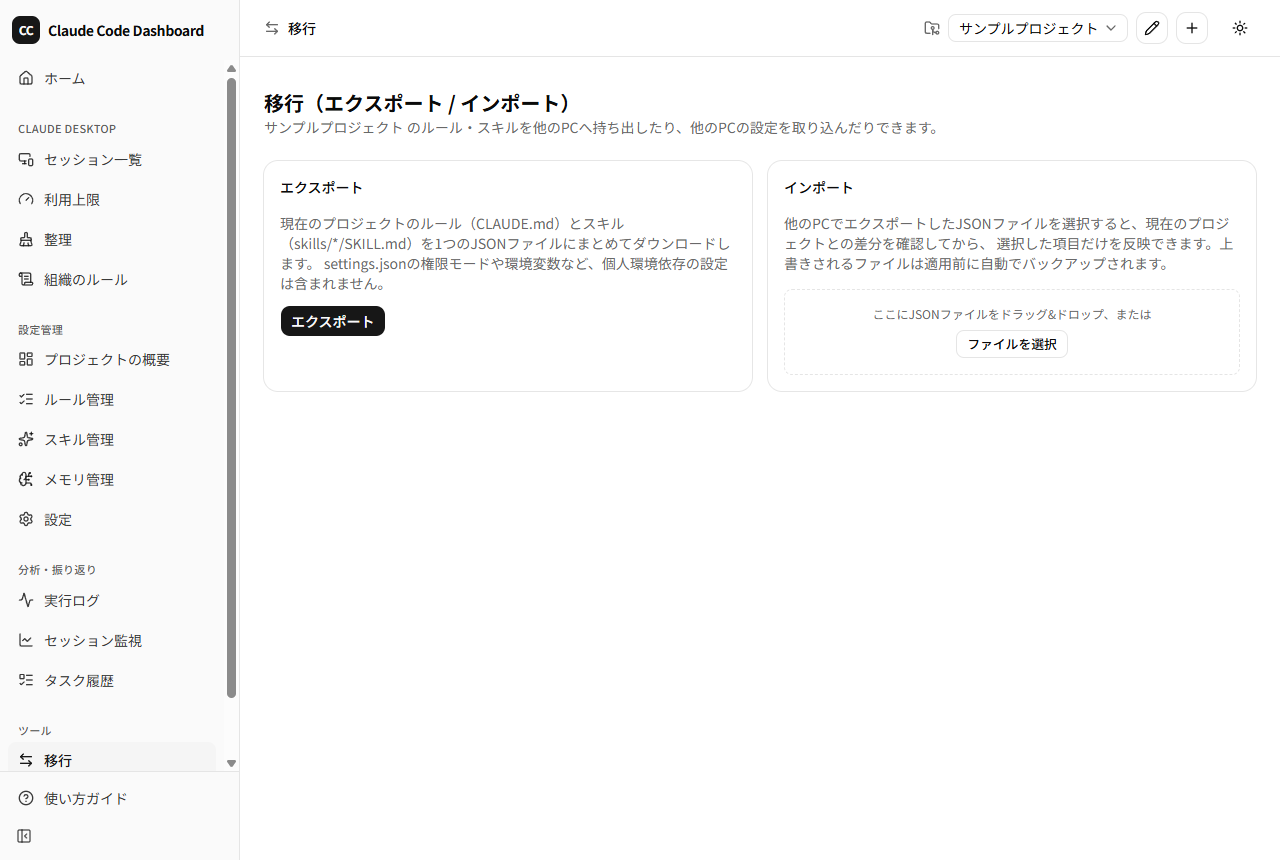
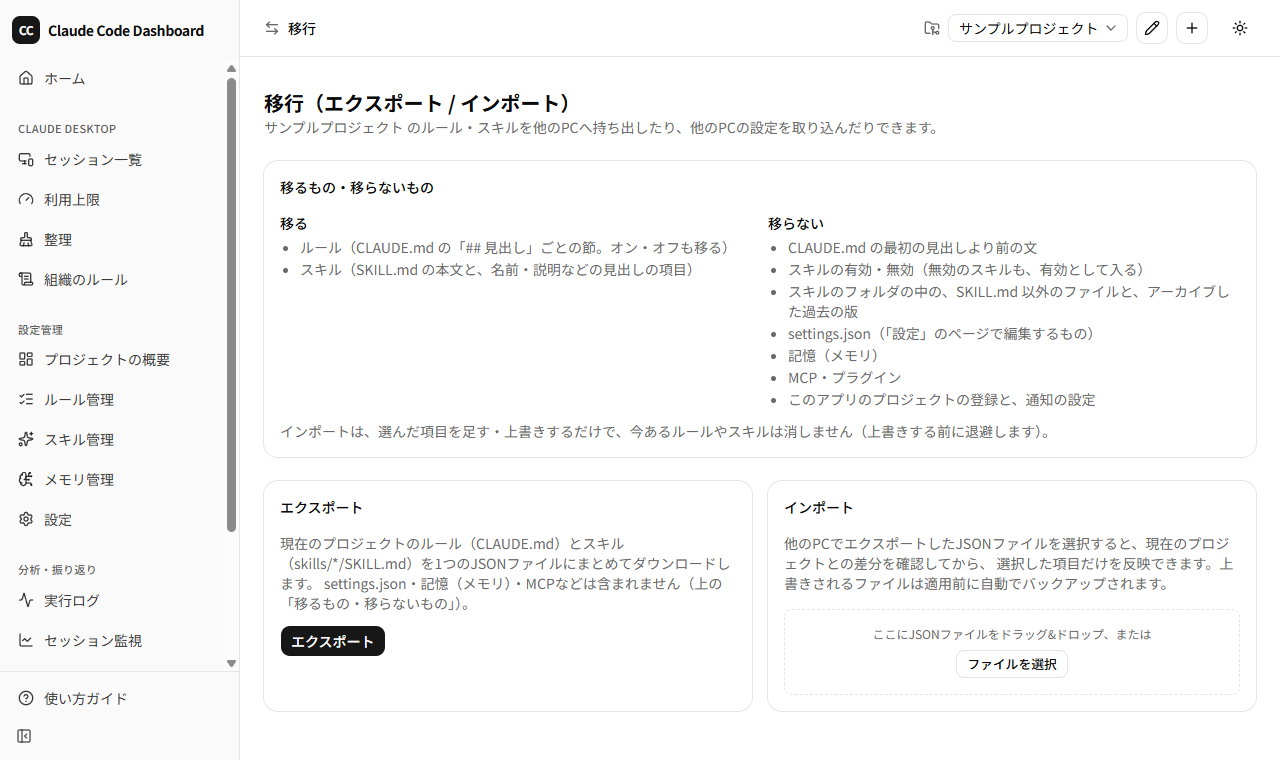
v0.2.0 の準備：移行の画面に「移るもの・移らないもの」を出し、版を 0.2.0 にする
- 移行のページの上に、移るもの（ルール・スキル）と移らないもの（最初の見出しより前の文・スキルの有効と無効・SKILL.md 以外のファイル・settings.json・記憶・MCP など）のカードを足す。文言は migrateScope.ts の1か所にまとめ、実際の動きとずれたら落ちるテストを足す
- エクスポートの説明・/help・使い方ガイド・README を同じ内容にそろえ、移行の画像を撮り直す
- package.json と package-lock.json を 0.2.0 にし、README にダウンロードの節を足す

diff --git a/src/lib/migrateScope.test.ts b/src/lib/migrateScope.test.ts
@@ -1,0 +1,74 @@
+import { promises as fs } from "fs"
+import os from "os"
+import path from "path"
+import { afterEach, describe, expect, it } from "vitest"
+import { applyImport, buildExportBundle } from "./exportImport"
+import { MIGRATE_EXCLUDED, MIGRATE_IMPORT_NOTE, MIGRATE_INCLUDED } from "./migrateScope"
+import { ProjectConfig } from "./types"
+
+// 移行のページの「移るもの・移らないもの」の説明が、エクスポート・インポートの実際の動きと合っていることを確かめる
+const cleanupDirs: string[] = []
+
+async function makeProject(): Promise<ProjectConfig> {
+  const tmpDir = await fs.mkdtemp(path.join(os.tmpdir(), "ccd-migrate-scope-test-"))
+  cleanupDirs.push(tmpDir)
+  return { id: "test", name: "テストプロジェクト", path: tmpDir }
+}
+
+async function writeSkill(root: string, dirName: string, body: string) {
+  const dir = path.join(root, dirName)
+  await fs.mkdir(dir, { recursive: true })
+  await fs.writeFile(path.join(dir, "SKILL.md"), `---\nname: ${dirName}\ndescription: desc\n---\n\n${body}\n`)
+}
+
+afterEach(async () => {
+  await Promise.all(cleanupDirs.splice(0).map((d) => fs.rm(d, { recursive: true, force: true })))
+})
+
+describe("移行で移るもの・移らないもの", () => {
+  it("書き出すのはルールとスキルだけ（形式を変えたら、migrateScope.ts の説明も直す）", async () => {
+    const project = await makeProject()
+    const bundle = await buildExportBundle(project)
+    expect(Object.keys(bundle).sort()).toEqual(["exportedAt", "rules", "skills", "sourceProjectName", "version"])
+    expect(MIGRATE_INCLUDED).toHaveLength(2)
+    expect(MIGRATE_EXCLUDED.length).toBeGreaterThan(0)
+  })
+
+  it("最初の見出しより前の文と、スキルのフォルダのほかのファイルは移らない。無効のスキルは有効として入る", async () => {
+    const source = await makeProject()
+    await fs.writeFile(path.join(source.path, "CLAUDE.md"), "前置きの文\n\n## ルールA\n本文A\n")
+    await writeSkill(path.join(source.path, "skills"), "on-skill", "有効の本文")
+    await fs.writeFile(path.join(source.path, "skills", "on-skill", "helper.txt"), "ほかのファイル")
+    await writeSkill(path.join(source.path, "skills-disabled"), "off-skill", "無効の本文")
+
+    const bundle = await buildExportBundle(source)
+    expect(JSON.stringify(bundle)).not.toContain("前置きの文")
+    expect(JSON.stringify(bundle)).not.toContain("ほかのファイル")
+    expect(bundle.skills.map((s) => s.dirName).sort()).toEqual(["off-skill", "on-skill"])
+
+    const target = await makeProject()
+    await applyImport(target, bundle, { ruleCategories: ["ルールA"], skillDirNames: ["on-skill", "off-skill"] })
+    await fs.access(path.join(target.path, "skills", "off-skill", "SKILL.md"))
+    await expect(fs.access(path.join(target.path, "skills-disabled", "off-skill"))).rejects.toThrow()
+    await expect(fs.access(path.join(target.path, "skills", "on-skill", "helper.txt"))).rejects.toThrow()
+  })
+
+  it("インポートは足す・上書きするだけで、今あるルール・スキル・前置きの文は消さない", async () => {
+    const source = await makeProject()
+    await fs.writeFile(path.join(source.path, "CLAUDE.md"), "## ルールA\n新しい本文A\n")
+    const bundle = await buildExportBundle(source)
+
+    const target = await makeProject()
+    await fs.writeFile(path.join(target.path, "CLAUDE.md"), "取り込む側の前置き\n\n## ルールA\n古い本文A\n\n## ルールB\n本文B\n")
+    await writeSkill(path.join(target.path, "skills"), "keep-skill", "残る本文")
+
+    await applyImport(target, bundle, { ruleCategories: ["ルールA"], skillDirNames: [] })
+    const claudeMd = await fs.readFile(path.join(target.path, "CLAUDE.md"), "utf-8")
+    expect(claudeMd).toContain("取り込む側の前置き")
+    expect(claudeMd).toContain("新しい本文A")
+    expect(claudeMd).not.toContain("古い本文A")
+    expect(claudeMd).toContain("## ルールB")
+    await fs.access(path.join(target.path, "skills", "keep-skill", "SKILL.md"))
+    expect(MIGRATE_IMPORT_NOTE).toContain("消しません")
+  })
+})

diff --git a/src/components/migrate/MigrateScope.tsx b/src/components/migrate/MigrateScope.tsx
@@ -1,0 +1,34 @@
+import { Card, CardContent, CardHeader, CardTitle } from "@/components/ui/card"
+import { MIGRATE_EXCLUDED, MIGRATE_IMPORT_NOTE, MIGRATE_INCLUDED } from "@/lib/migrateScope"
+
+/** 移行で移るもの・移らないもの(エクスポートとインポートの上に出す) */
+export function MigrateScope() {
+  return (
+    <Card>
+      <CardHeader>
+        <CardTitle className="text-sm">移るもの・移らないもの</CardTitle>
+      </CardHeader>
+      <CardContent className="space-y-3 text-sm">
+        <div className="grid grid-cols-1 gap-4 md:grid-cols-2">
+          <div>
+            <p className="font-medium">移る</p>
+            <ul className="mt-1 list-disc space-y-0.5 pl-5 text-muted-foreground">
+              {MIGRATE_INCLUDED.map((item) => (
+                <li key={item}>{item}</li>
+              ))}
+            </ul>
+          </div>
+          <div>
+            <p className="font-medium">移らない</p>
+            <ul className="mt-1 list-disc space-y-0.5 pl-5 text-muted-foreground">
+              {MIGRATE_EXCLUDED.map((item) => (
+                <li key={item}>{item}</li>
+              ))}
+            </ul>
+          </div>
+        </div>
+        <p className="text-muted-foreground">{MIGRATE_IMPORT_NOTE}</p>
+      </CardContent>
+    </Card>
+  )
+}

diff --git a/src/lib/migrateScope.ts b/src/lib/migrateScope.ts
@@ -1,0 +1,21 @@
+/**
+ * 移行(エクスポート / インポート)で、別のPCへ移るもの・移らないもの。移行のページに出す。
+ * エクスポートの形式(exportImport.ts の buildExportBundle)を変えたら、ここも合わせる(migrateScope.test.ts が気づかせる)。
+ */
+export const MIGRATE_INCLUDED: readonly string[] = [
+  "ルール（CLAUDE.md の「## 見出し」ごとの節。オン・オフも移る）",
+  "スキル（SKILL.md の本文と、名前・説明などの見出しの項目）",
+]
+
+export const MIGRATE_EXCLUDED: readonly string[] = [
+  "CLAUDE.md の最初の見出しより前の文",
+  "スキルの有効・無効（無効のスキルも、有効として入る）",
+  "スキルのフォルダの中の、SKILL.md 以外のファイルと、アーカイブした過去の版",
+  "settings.json（「設定」のページで編集するもの）",
+  "記憶（メモリ）",
+  "MCP・プラグイン",
+  "このアプリのプロジェクトの登録と、通知の設定",
+]
+
+export const MIGRATE_IMPORT_NOTE =
+  "インポートは、選んだ項目を足す・上書きするだけで、今あるルールやスキルは消しません（上書きする前に退避します）。"

diff --git a/src/app/help/page.tsx b/src/app/help/page.tsx
@@ -208,7 +208,7 @@ const PAGE_GUIDES: PageGuide[] = [
     label: "移行",
     icon: ArrowLeftRight,
     description:
-      "ルール・スキルを1つのJSONファイルとしてエクスポートし、別のPC（プロジェクト）に差分プレビュー付きでインポートできる。上書きされるファイルは適用前に自動でバックアップされる。",
+      "ルール・スキルを1つのJSONファイルとしてエクスポートし、別のPC（プロジェクト）に差分プレビュー付きでインポートできる。移るのは、ルール（CLAUDE.md の「## 見出し」ごとの節）とスキル（SKILL.md の本文と見出しの項目）だけ。CLAUDE.md の最初の見出しより前の文、スキルの有効・無効（無効のスキルも有効として入る）、スキルのフォルダの中のほかのファイル、settings.json、記憶（メモリ）、MCP・プラグイン、このアプリのプロジェクトの登録と通知の設定は移らない。インポートは足す・上書きするだけで、今あるルールやスキルは消さない。上書きされるファイルは適用前に自動でバックアップされる。",
   },
   {
     href: "/refactor",

diff --git a/src/app/migrate/page.tsx b/src/app/migrate/page.tsx
@@ -5,6 +5,7 @@ import { useExportImport } from "@/hooks/useExportImport"
 import { Alert, AlertDescription, AlertTitle } from "@/components/ui/alert"
 import { ExportPanel } from "@/components/migrate/ExportPanel"
 import { ImportPanel } from "@/components/migrate/ImportPanel"
+import { MigrateScope } from "@/components/migrate/MigrateScope"
 
 export default function MigratePage() {
   const { selectedProjectId, selectedProject, isLoading: projectsLoading } = useProjects()
@@ -31,6 +32,8 @@ export default function MigratePage() {
           {selectedProject.name} のルール・スキルを他のPCへ持ち出したり、他のPCの設定を取り込んだりできます。
         </p>
       </div>
+
+      <MigrateScope />
 
       <div className="grid grid-cols-1 gap-4 lg:grid-cols-2">
         <ExportPanel exportUrl={exportUrl()} />

diff --git a/src/components/migrate/ExportPanel.tsx b/src/components/migrate/ExportPanel.tsx
@@ -14,7 +14,7 @@ export function ExportPanel({ exportUrl }: ExportPanelProps) {
       <CardContent className="space-y-3">
         <p className="text-sm text-muted-foreground">
           現在のプロジェクトのルール（CLAUDE.md）とスキル（skills/*/SKILL.md）を1つのJSONファイルにまとめてダウンロードします。
-          settings.jsonの権限モードや環境変数など、個人環境依存の設定は含まれません。
+          settings.json・記憶（メモリ）・MCPなどは含まれません（上の「移るもの・移らないもの」）。
         </p>
         <Button nativeButton={false} render={<a href={exportUrl} download />}>
           エクスポート

diff --git a/docs/manual/使い方ガイド.md b/docs/manual/使い方ガイド.md
@@ -55,7 +55,7 @@ Claude Desktop のセッションを見るページ（ホームと、Claude Desk
 
 ### 3-1. 配布 exe で起動する
 
-1. 配布された `ClaudeCodeDashboard-<版>-portable.exe` を、好きなフォルダに置いてダブルクリックする
+1. 配布された `ClaudeCodeDashboard-<版>-portable.exe`（v0.2.0 なら `ClaudeCodeDashboard-0.2.0-portable.exe`）を、好きなフォルダに置いてダブルクリックする
    → 初回だけ、Windows の警告（SmartScreen）が出ることがあります。コード署名をしていないためです。
 2. 警告が出たら『詳細情報』を押し、『実行』を押す（Windows の画面の文字は『』で書きます）
    → 進み具合と残り時間の目安を表示する小さな画面が出ます。起動には20〜25秒ほどかかります（exe が自分を一時フォルダへ展開する時間がほとんどで、この間は進み具合が動かないことがあります）。
@@ -69,7 +69,7 @@ Claude Desktop のセッションを見るページ（ホームと、Claude Desk
 - アプリは、このPCの中だけ（`127.0.0.1`）で待ち受けます。ポートは 38417 を優先して使います。38417 がほかのアプリに使われているときだけ、空いているポートで起動し、画面の上部に「別のポートで起動しました」と出ます（[8章](#8-困ったとき)）。
 - exe をもう一度ダブルクリックしても、2つ目は起動せず、開いているウィンドウが前に出ます。
 - 登録したプロジェクトや設定は `%APPDATA%\claude-code-dashboard` に保存されます。exe を新しい版に置き換えても消えません。
-- サンプルデータは exe に入っていません。試したいときは、リリースのページから `sample-data-v<版>.zip` を取得して展開し、「プロジェクトの概要」の右上の「+」からそのフォルダを登録します。
+- サンプルデータは exe に入っていません。試したいときは、リリースのページから `sample-data-v<版>.zip`（v0.2.0 なら `sample-data-v0.2.0.zip`）を取得して展開し、「プロジェクトの概要」の右上の「+」からそのフォルダを登録します。
 
 ### 3-2. ブラウザで起動する（開発用）
 
@@ -275,10 +275,14 @@ Claude Desktop のセッションを見るページ（ホームと、Claude Desk
 
 ### 移行
 
-![移行（エクスポート / インポート）。エクスポートと、ファイルを選んで差分を確かめるインポート](images/12-migrate.png)
+![移行（エクスポート / インポート）。移るもの・移らないもの、エクスポートと、ファイルを選んで差分を確かめるインポート](images/12-migrate.png)
 
-- 「エクスポート」：ルール（`CLAUDE.md`）とスキルを1つの JSON ファイルにまとめてダウンロードします。`settings.json` の環境変数などは入りません。
+- 「エクスポート」：ルール（`CLAUDE.md`）とスキルを1つの JSON ファイルにまとめてダウンロードします。
 - 「インポート」：別の PC で書き出した JSON を「ファイルを選択」（ドラッグ＆ドロップでも可）で選ぶと、今のプロジェクトとの差分が出ます。選んだ項目だけを反映します。上書きされるファイルは先に退避されます。
+- 「移るもの・移らないもの」（ページの上）：
+  - 移るもの：ルール（`CLAUDE.md` の「## 見出し」ごとの節。オン・オフも移る）と、スキル（`SKILL.md` の本文と、名前・説明などの見出しの項目）だけです。
+  - 移らないもの：`CLAUDE.md` の最初の見出しより前の文、スキルの有効・無効（無効のスキルも、有効として入ります）、スキルのフォルダの中の `SKILL.md` 以外のファイルとアーカイブした過去の版、`settings.json`（「設定」のページで編集するもの）、記憶（メモリ）、MCP・プラグイン、このアプリのプロジェクトの登録と通知の設定。
+  - インポートは、選んだ項目を足す・上書きするだけで、今あるルールやスキルは消しません。
 
 ### ルール整理
 
